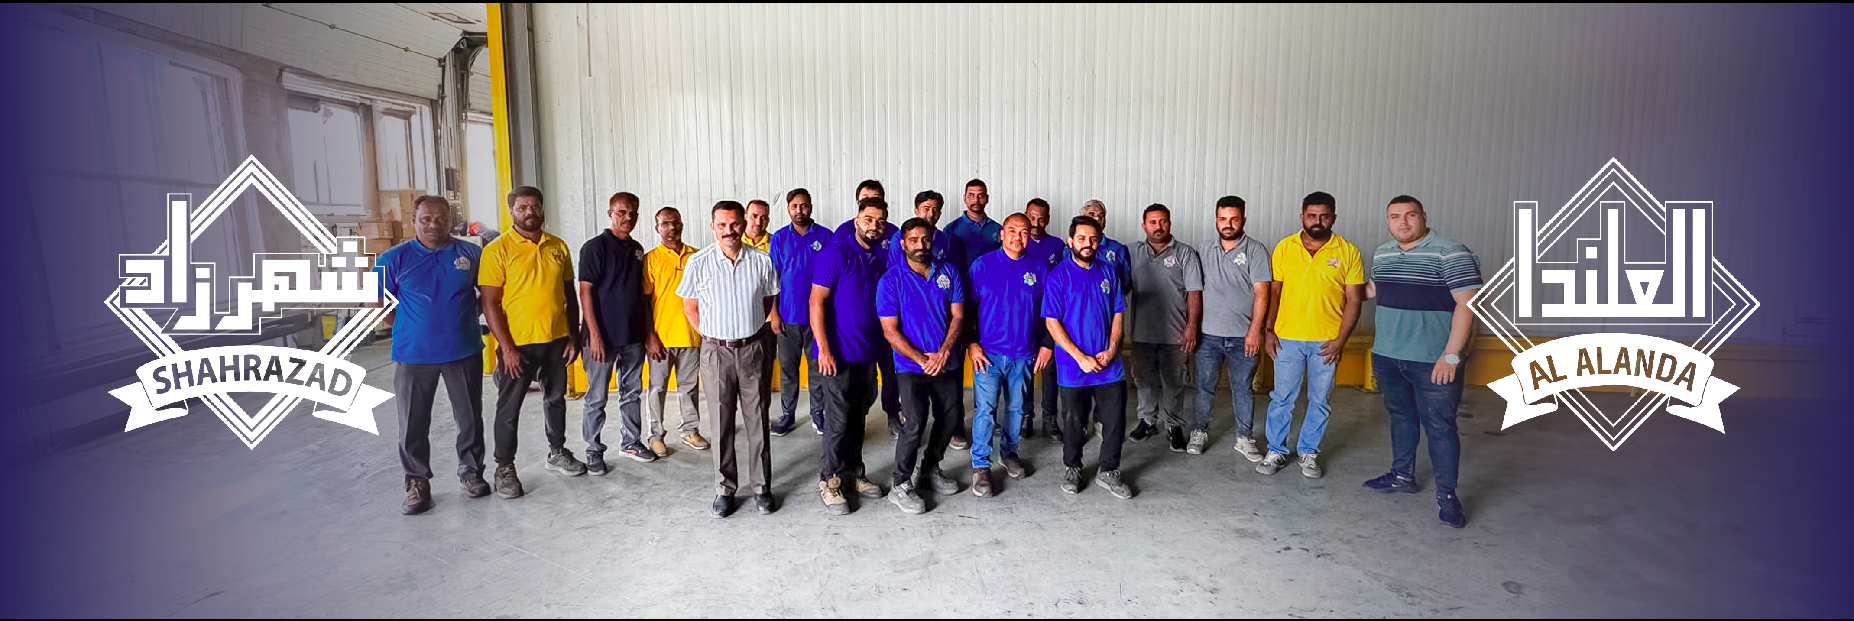
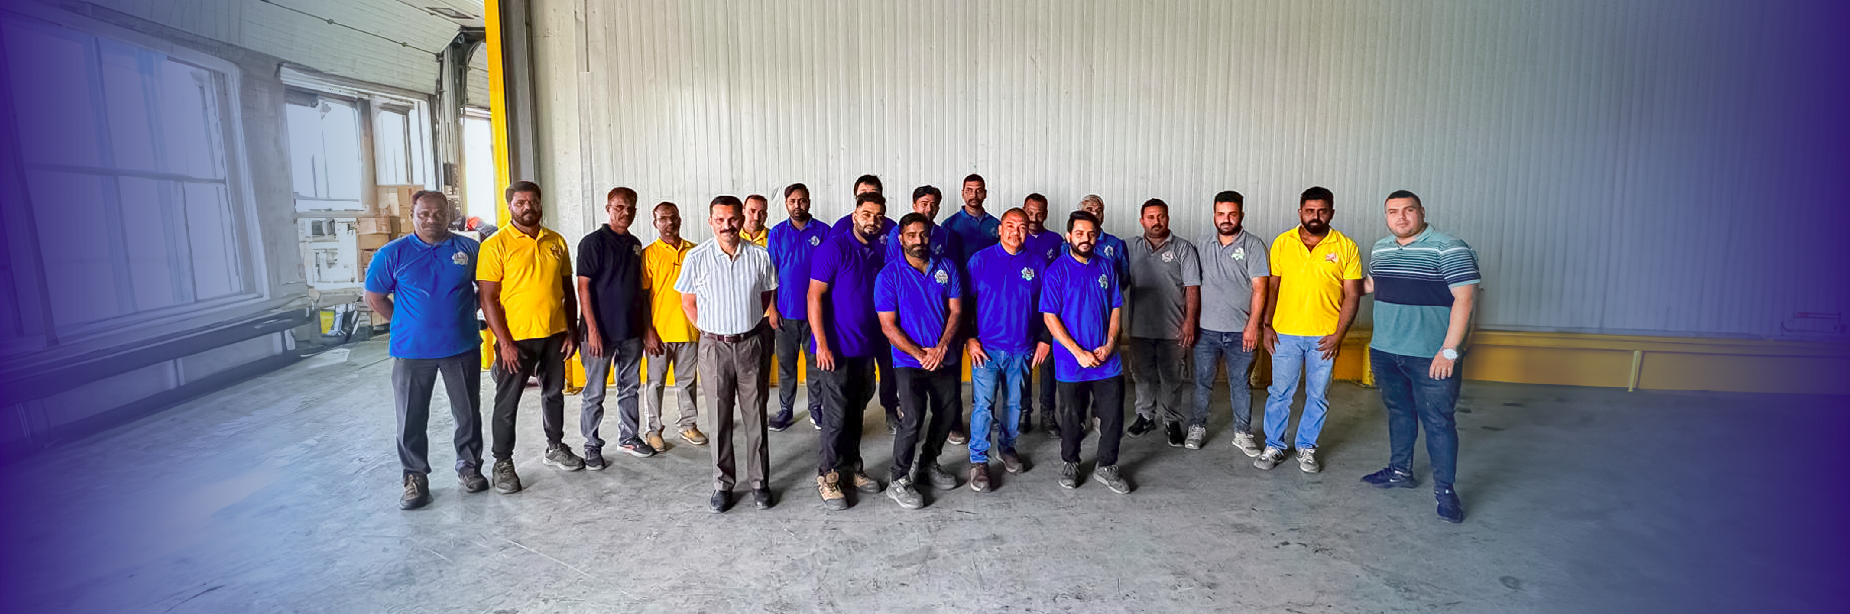
Changed the team image in about page

diff --git a/templates/about.html b/templates/about.html
@@ -64,10 +64,10 @@
 <div class="w-100 position-relative text-center mb-5 team-image-section" style="padding:0;height:600px;overflow:hidden;">
     <img src="/media/about/team.png" style="height:600px;object-fit:cover;width:100vw;max-width:100vw;position:absolute;top:0;left:0;z-index:1;" alt="{% trans 'Our History' %}" class="img-fluid rounded w-100">
     <!-- Gradient overlay: heavy #1D458C on left and right, fading to transparent in the center -->
-    <div style="position:absolute;top:0;left:0;width:100%;height:100%;z-index:2;pointer-events:none;background:linear-gradient(to right,#1D458C 0%,rgba(29,69,140,0.7) 10%,transparent 40%,transparent 60%,rgba(29,69,140,0.7) 90%,#1D458C 100%);"></div>
+    <div style="position:absolute;top:0;left:0;width:100%;height:100%;z-index:2;pointer-events:none;background:linear-gradient(to right,#1D458C 0%,rgba(29,69,140,0.3) 10%,transparent 40%,transparent 60%,rgba(29,69,140,0.3) 90%,#1D458C 100%);"></div>
    
     <img src="/media/about/Shahrazad.png" alt="Shahrazad Logo" style="position: absolute;top:50%;width:350px;height:auto;transform:translateY(-50%);border-radius:12px;box-shadow:0 2px 12px rgba(0,0,0,0.08);padding:8px 12px;z-index:10;left:100px " class="col-sm-12 team-logo team-logo-left">
-    <img src="/media/about/alalanda.png" alt="Alalanda Logo" style="position: absolute;top:50%;width:350px;height:auto;transform:translateY(-50%);border-radius:12px;box-shadow:0 2px 12px rgba(0,0,0,0.08);padding:8px 12px;z-index:10;right:100px " class="col-sm-12 team-logo team-logo-right">
+    <img src="/media/about/alalanda.png" alt="Alalanda Logo" style="position: absolute;top:50%;width:370px;height:auto;transform:translateY(-50%);border-radius:12px;box-shadow:0 2px 12px rgba(0,0,0,0.08);padding:8px 12px;z-index:10;right:100px " class="col-sm-12 team-logo team-logo-right">
 </div>
 <!DOCTYPE html>
 <html lang="en">

diff --git a/static/css/about.css b/static/css/about.css
@@ -71,19 +71,20 @@
   right: 40px;
 }
 
-@media (max-width: 768px) {
+@media (max-width: 912px) {
   .team-bar {
     width: 30px;
   }
   .team-logo {
-    width: 70px;
     padding: 4px 6px;
   }
   .team-logo-left {
     left: 10px;
+    width: 70px;
   }
   .team-logo-right {
     right: 10px;
+    width: 90px;
   }
 }
 
@@ -95,7 +96,6 @@
     transform: none;
     left: unset;
     right: unset;
-    width: 80px;
     max-width: 80vw;
     z-index: 10;
   }
